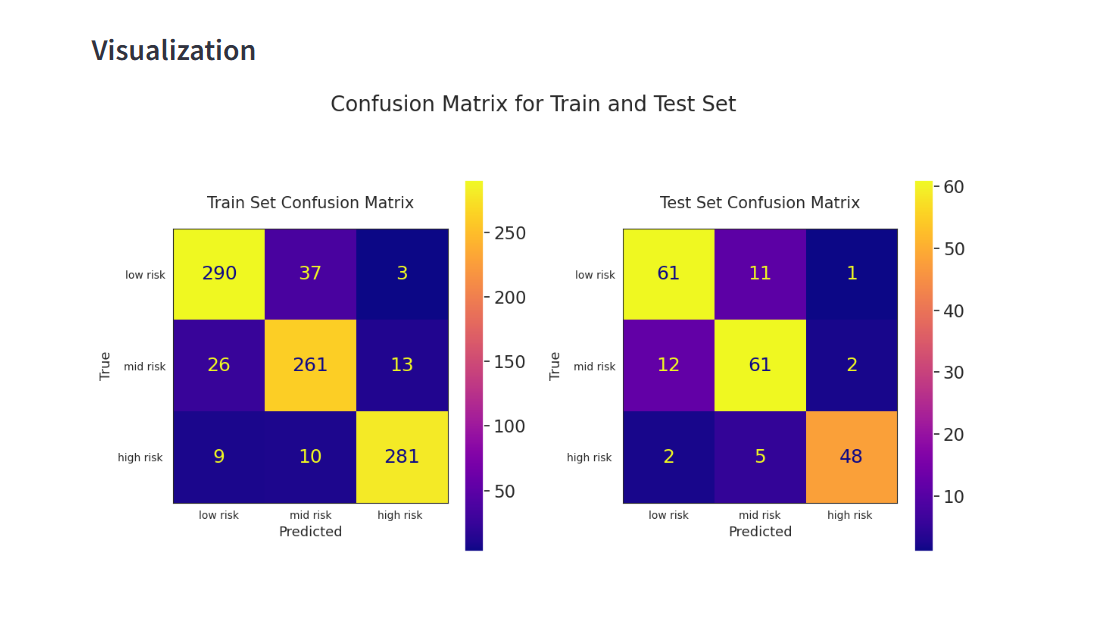
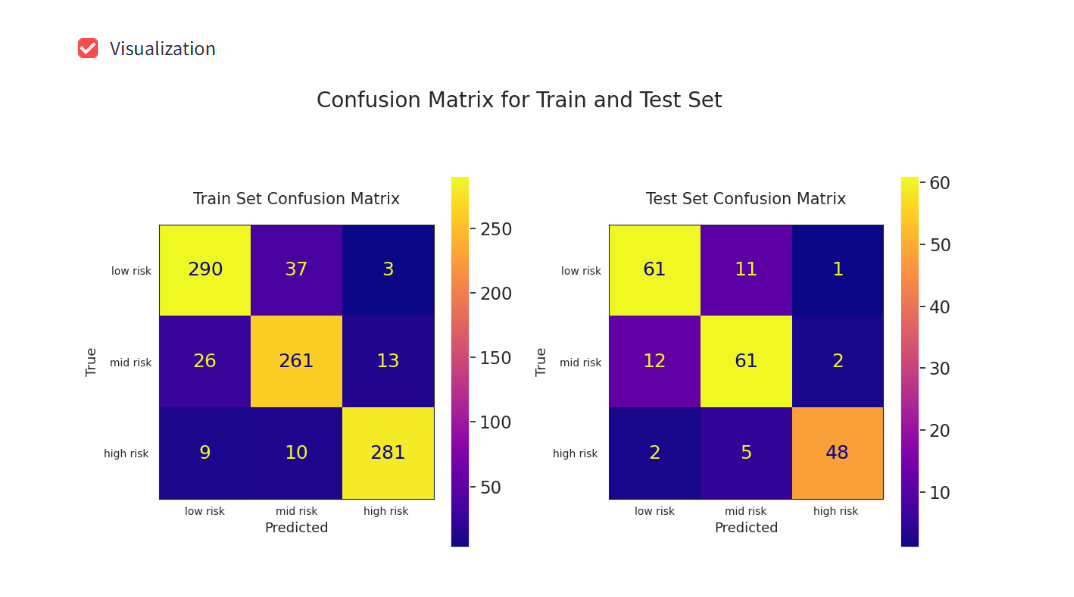
Add checkboxes to model and evaluation dashboard page for interactivity, adapt readme

diff --git a/app_pages/page_model_evaluation.py b/app_pages/page_model_evaluation.py
@@ -56,50 +56,51 @@ def page_model_evaluation_body():
             "  * 94% and 87% for high-risk recall, respectively\n"
             "  * 89% and 81% for low-risk precision, respectively\n"
             )
-
-    # show pipelines
     st.write("---")
-    st.write("### ML Pipelines")
-    st.info("There are 2 ML Pipelines arranged in series.")
 
-    st.write(" * The first is responsible for feature engineering:")
-    st.write(pipeline_feat_eng)
+    # Show pipelines
+    if st.checkbox("### ML Pipelines"):
+        st.info("There are 2 ML Pipelines arranged in series.")
 
-    st.write("* The second is responsible for feature scaling and modelling:")
-    st.write(pipeline_model)
+        st.write(" * The first is responsible for feature engineering:")
+        st.write(pipeline_feat_eng)
 
-    st.success(
-        "The optimised model is a Random Forest Classifier with max depth 10."
-        )
+        st.write("* The second is responsible for feature scaling and modelling:")
+        st.write(pipeline_model)
 
-    # show feature importance plot
-    st.write("---")
-    st.write("### Features")
+        st.success(
+            "The optimised model is a Random Forest Classifier with max depth 10."
+            )
+        st.write("---")
+
+    # Show feature importance plot
+    if st.checkbox("### Features"):
     # get features list:
-    feat_list = X_train.columns.to_list()
-    st.info(
-        "The model was trained on the following features (in order of "
-        "importance):\n"
-        f"| {feat_list[0]} | {feat_list[1]} | {feat_list[2]} |\n"
-        "| --- | --- | --- |"
-        )
-    st.image(feat_importance_plot)
+        feat_list = X_train.columns.to_list()
+        st.info(
+            "The model was trained on the following features (in order of "
+            "importance):\n"
+            f"| {feat_list[0]} | {feat_list[1]} | {feat_list[2]} |\n"
+            "| --- | --- | --- |"
+            )
+        st.image(feat_importance_plot)
+        st.write("---")
 
-    # evaluate performance on train and test set
-    st.write("---")
-    st.write("### Pipeline Performance")
-    st.info("A report of performance metrics for the train and test sets:")
-    # Don't need to apply feature engineering pipeline since the train and test
-    # set was already transformed in the jupyter notebooks
-    performance(
-        X_train=X_train,
-        y_train=y_train,
-        X_test=X_test,
-        y_test=y_test,
-        pipeline=pipeline_model,
-        label_map=["low-risk", "mid-risk", "high-risk"]
-        )
-    # show confusion matrix plot
-    st.write("---")
-    st.write("#### Visualization")
-    st.image(confusion_matrix_plot)
+    # Evaluate performance on train and test set
+    if st.checkbox("### Pipeline Performance"):
+        st.info("A report of performance metrics for the train and test sets:")
+        # Don't need to apply feature engineering pipeline since the train and test
+        # set was already transformed in the jupyter notebooks
+        performance(
+            X_train=X_train,
+            y_train=y_train,
+            X_test=X_test,
+            y_test=y_test,
+            pipeline=pipeline_model,
+            label_map=["low-risk", "mid-risk", "high-risk"]
+            )
+        st.write("---")
+
+    # Show confusion matrix plot
+    if st.checkbox("#### Visualization"):
+        st.image(confusion_matrix_plot)

diff --git a/README.md b/README.md
@@ -236,7 +236,7 @@ In this section we describe the design of the project dashboard including the pa
 | Project Summary Page | Link to documentation | Link to the full documentation here | ![screenshot](documentation/dashboard/readme_link.png) |
 | Project Summary Page | Business requirements | The business requirements agreed on with the client | ![screenshot](documentation/dashboard/business_requirements.png) |
 | Maternal Health Risk Study Page | Maternal Health Risk Study Summary | A summary of this page describing that it answers business requirement 1 | ![screenshot](documentation/dashboard/maternal_health_risk_study_summary.png) |
-| Maternal Health Risk Study Page | Checkboxes to display and hide different sections | The seperate sections of this page are collapsed and can be displayed by clicking the respective checkbox | ![screenshot](documentation/dashboard/checkboxes.png) |
+| Maternal Health Risk Study Page | Checkboxes to display and hide different sections | The seperate sections of this page are collapsed and can be displayed by clicking the respective checkbox. This makes the page interactive to avoid information overload. | ![screenshot](documentation/dashboard/study_checkboxes.png) |
 | Maternal Health Risk Study Page | Inspect Maternal Health Risk Dataset | Show a sample of the dataset, state size of dataset and give information about the variables | ![screenshot](documentation/dashboard/inspect_dataset.png) |
 | Maternal Health Risk Study Page | Correlation Study Results | Present the results of the correlation study and state which variables are most correlated to the target | ![screenshot](documentation/dashboard/correlation_study_results.png) |
 | Maternal Health Risk Study Page | Correlation and PPS Heatmaps | Visualize the correlation study with heatmaps (Spearman correlation and predictive power score (pps)) | ![screenshot](documentation/dashboard/correlation_heatmaps.png) |
@@ -248,6 +248,7 @@ In this section we describe the design of the project dashboard including the pa
 | Predict Health Risk Levels Page | Prediction for Medium Risk | Example for a medium-risk prediction. | ![screenshot](documentation/dashboard/prediction_mid_risk.png) |
 | Predict Health Risk Levels Page | Prediction for High Risk | Example for a high-risk prediction. | ![screenshot](documentation/dashboard/prediction_high_risk.png) |
 | ML: Model and Evaluation | Model and Evaluation Summary | Summary of model performance requirements and actual model performance results | ![screenshot](documentation/dashboard/model_evaluation_summary.png) |
+| ML: Model and Evaluation | Checkboxes to display and hide different sections | The seperate sections of this page are collapsed and can be displayed by clicking the respective checkbox. This makes the page interactive to avoid information overload. | ![screenshot](documentation/dashboard/evaluation_checkboxes.png) |
 | ML: Model and Evaluation | ML Pipelines | Present the feature engineering and model pipeline, showing the steps and hyperparameters | ![screenshot](documentation/dashboard/ml_pipelines.png) |
 | ML: Model and Evaluation | Features | Present the most important features and their relative importance | ![screenshot](documentation/dashboard/features.png) |
 | ML: Model and Evaluation | Pipeline Performance | Present a more detailed pipeline performance report, including classification reports and confusion matrices for the train and the test set | ![screenshot](documentation/dashboard/performance.png) |
@@ -310,7 +311,6 @@ There are many ways in which one could improve or extend this project. Some idea
 | [![badge](https://img.shields.io/badge/Streamlit-grey?logo=streamlit&logoColor=FF4B4B)](https://streamlit.io/) | App framework to create front-end. |
 | [![badge](https://img.shields.io/badge/Heroku-grey?logo=heroku&logoColor=430098)](https://www.heroku.com) | Hosting the deployed back-end site. |
 | [![badge](https://img.shields.io/badge/ChatGPT-grey?logo=openai&logoColor=75A99C)](https://chat.openai.com) | Help debug, troubleshoot, and explain things. |
-| [![badge](https://img.shields.io/badge/Python-grey?logo=python&logoColor=3776AB)](https://www.python.org) | Back-end and front-end programming language. |
 
 ## Testing
 
